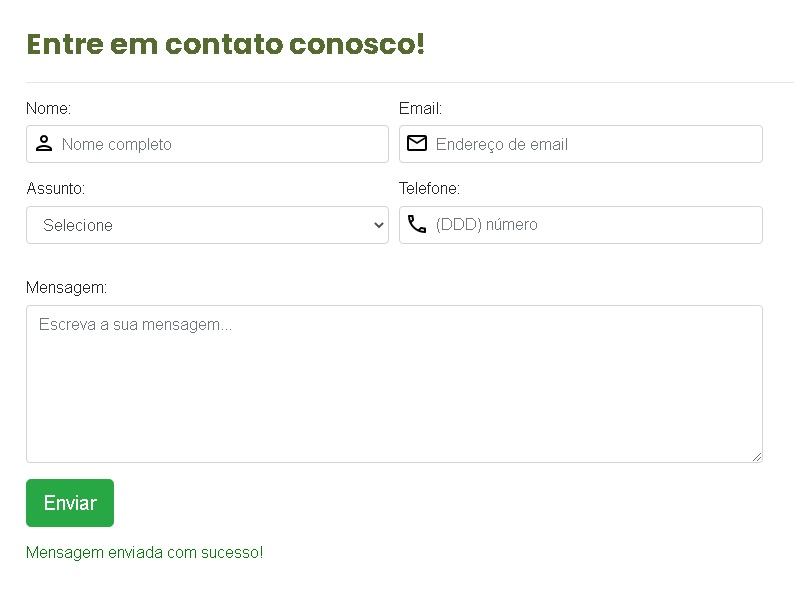
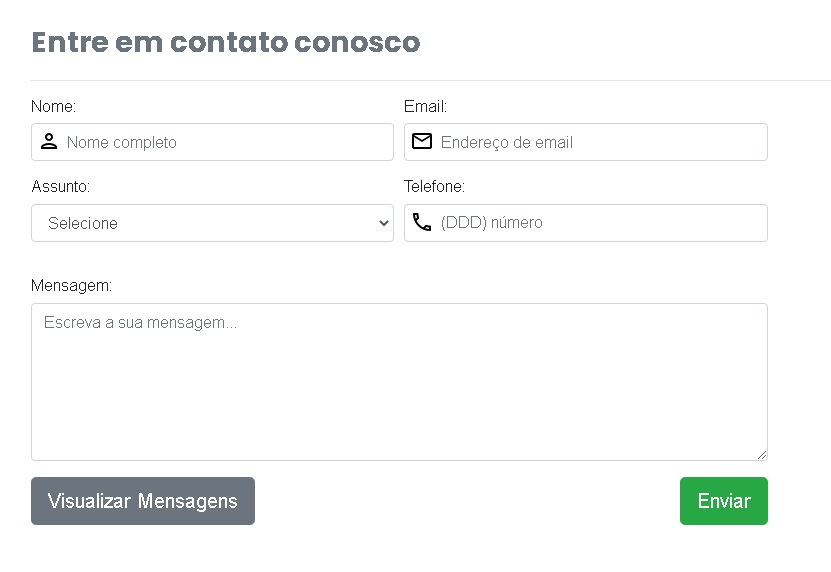
UPDATE - Add CRUD (UPDATE and DELETE methods)

diff --git a/style.css b/style.css
@@ -50,14 +50,51 @@ body {
     transition: ease-in-out 1s;
 }
 
-.msg {
-    margin: 1rem 0;
-}
-
 a.btn {
     margin: 5px 5px;
 }
 
+#btn_sub {
+    float: right;
+}
+
+.btn_view.hidden {
+    display: none;
+}
+
+.btn_hidden.hidden {
+    display: none;
+}
+
+/* LIST */
 #lista_contato.hidden {
     display: none;
+}
+.table td,
+.table th {
+    text-align: left;
+    vertical-align: middle;
+    padding: 0.5rem;
+}
+
+td.btn_list {
+    text-align: center;
+}
+
+/* ALERT */
+
+.aviso {
+    padding-top: 1rem;
+    display: flex;
+    align-items: center;
+    color: #3f3f3e;
+}
+
+.aviso h5 {
+    font-weight: 700;
+}
+
+.aviso img {
+    margin-right: 0.5rem;
+    width: 2.5rem;
 }

diff --git a/funcoes.js b/funcoes.js
@@ -1,7 +1,16 @@
 // Máscara para telefone/celular
 $("#telefone, #celular").mask("(00) 00000-0000");
 
-// Remover Classe Hidden
+// Remover Classe Hidden da lista e botão visualizar
 $("#btn_hidden").click(function () {
-    $(".lista").toggleClass("hidden");
+    $("#lista_contato.lista").toggleClass("hidden");
+    $(".btn_view").toggleClass("hidden");
+    $(".btn_hidden").toggleClass("hidden");
+});
+
+// Remover Classe Hidden da lista e botão ocultar
+$("#btn_hidden2").click(function () {
+    $("#lista_contato.lista").toggleClass("hidden");
+    $(".btn_hidden").toggleClass("hidden");
+    $(".btn_view").toggleClass("hidden");
 });

diff --git a/index.php b/index.php
@@ -3,7 +3,6 @@ require_once 'classe_cliente.php';
 $p = new Cliente("127.0.0.1","3308","contato_clientes", "root","");
 ?>
 
-
 <!DOCTYPE html>
 <html lang="en">
     <head>
@@ -24,28 +23,74 @@ $p = new Cliente("127.0.0.1","3308","contato_clientes", "root","");
         <title>Formulário de Contato</title>
     </head>
     <body>
-    <?php
-        if(isset($_POST['nome']))
-        {
-            $nome = addslashes($_POST['nome']); 
-            $email= addslashes($_POST['email']);
-            $assunto= addslashes($_POST['assunto']);
-            $telefone= addslashes($_POST['telefone']);
-            $mensagem= addslashes($_POST['mensagem']);
-
-            if(!empty($nome) && !empty($email) && !empty($assunto) && !empty($telefone) && !empty($mensagem))
-            {
-                $p->cadastrarMensagem($nome, $email, $assunto, $telefone, $mensagem);
-
-            } else {
-                echo "Preencha todos os campos!";
-            }
-        }
-    ?>
         <div class="container">
+            <!--INSERIR MSG DO CLIENTE NO BANCO DE DADOS-->
+            <?php
+                if(isset($_POST['btn_submit']))
+                {
+                    // EDITAR
+                    if(isset($_GET['id_up']) && !empty($_GET['id_up']))
+                    {
+                        $id_upd = addslashes($_GET['id_up']);
+                        $nome = addslashes($_POST['nome']); 
+                        $email= addslashes($_POST['email']);
+                        $assunto= addslashes($_POST['assunto']);
+                        $telefone= addslashes($_POST['telefone']);
+                        $mensagem= addslashes($_POST['mensagem']);
+    
+                        if(!empty($nome) && !empty($email) && !empty($assunto) && !empty($telefone) && !empty($mensagem))
+                        {
+                            $p->atualizarDados($id_upd,$nome, $email, $assunto, $telefone, $mensagem);
+                            echo "<script language='javascript'>window.location.href='index.php';</script>";
+    
+                        } 
+                        else 
+                        {
+                             ?>
+                            <div class='aviso'>
+                                <img src="images/aviso.svg" alt="Error">
+                                <h5>Não foi possível atualizar, por favor, preencha todos os campos!</h5>
+                            </div>
+                            <?php
+                        }    
+                    }
+                     // CADASTRAR MSG NOVA
+                    else 
+                    {
+                        $nome = addslashes($_POST['nome']); 
+                        $email= addslashes($_POST['email']);
+                        $assunto= addslashes($_POST['assunto']);
+                        $telefone= addslashes($_POST['telefone']);
+                        $mensagem= addslashes($_POST['mensagem']);
+    
+                        if(!empty($nome) && !empty($email) && !empty($assunto) && !empty($telefone) && !empty($mensagem))
+                        {
+                            $p->cadastrarMensagem($nome, $email, $assunto, $telefone, $mensagem);
+    
+                        } 
+                        else 
+                        {
+                            ?>
+                            <div class='aviso'>
+                                <img src="images/aviso.svg" alt="Error">
+                                <h5>Por favor, preencha todos os campos!</h5>
+                            </div>
+                            <?php
+                        }
+                    }    
+                }
+            ?>
+            <!--ATUALIZAR MENSAGEM ENVIADA-->
+            <?php
+                if(isset($_GET['id_up']))
+                {
+                    $id_update = addslashes($_GET['id_up']);
+                    $res = $p->buscarDadosCliente($id_update);
+                }
+            ?>
             <section class="form_contact">
                 <header>
-                    <h2>Entre em contato conosco!</h2>
+                    <h2>Entre em contato conosco</h2>
                 </header>
                 <hr />
                 <form method="POST">
@@ -58,16 +103,18 @@ $p = new Cliente("127.0.0.1","3308","contato_clientes", "root","");
                                 class="form-control name"
                                 placeholder="Nome completo"
                                 name="nome"
+                                value="<?php if(isset($res)){echo $res['nome'];}?>"
                             />
                         </div>
                         <div class="form-group col-md-4">
                             <label for="email">Email:</label>
                             <input
-                                type="email"
                                 class="form-control email"
                                 id="email"
-                                placeholder="Endereço de email"
+                                type="email"
                                 name="email"
+                                placeholder="Endereço de email"
+                                value="<?php if(isset($res)){echo $res['email'];}?>"
                             />
                         </div>
                     </div>
@@ -75,8 +122,8 @@ $p = new Cliente("127.0.0.1","3308","contato_clientes", "root","");
                         <div class="form-group col-md-4">
                             <label for="assunto">Assunto:</label>
                             <select
-                                id="assunto"
                                 class="form-control"
+                                id="assunto"
                                 name="assunto"
                             >
                                 <option selected>Selecione</option>
@@ -96,7 +143,9 @@ $p = new Cliente("127.0.0.1","3308","contato_clientes", "root","");
                                 placeholder="(DDD) número"
                                 id="telefone"
                                 name="telefone"
-                            /><br />
+                                value="<?php if(isset($res)){echo $res['telefone'];}?>"
+                            />
+                            <br/>
                         </div>
                     </div>
                     <div class="form-row">
@@ -110,30 +159,36 @@ $p = new Cliente("127.0.0.1","3308","contato_clientes", "root","");
                                 rows="6"
                                 name="mensagem"
                                 placeholder="Escreva a sua mensagem..."
-                            ></textarea>
+                            ><?php if(isset($res)){echo $res['mensagem'];}?></textarea>
                         </div>
                     </div>
-                    <input type="submit" value="Enviar" id="btn_sub" class="btn btn-success btn-lg">
-                    <button type="button" id="btn_hidden" class="btn btn-secondary btn-lg">Visualizar Mensagens</button>
+                    <div class="form-row">
+                        <div class="form-group col-md-8">
+                            <input type="button" id="btn_hidden" class="btn_view btn btn-secondary btn-lg" value="Visualizar Mensagens">
+                            <input type="button" id="btn_hidden2" class="btn_hidden btn btn-secondary btn-lg hidden" value="Ocultar Mensagens">
+                            <input type="submit" name="btn_submit" value="<?php if(isset($res)){echo "Atualizar";}else {echo "Enviar";}?>" id="btn_sub" class="btn btn-success btn-lg">
+                        </div>
+                    </div>
                 </form>
             </section>
             <br>
             <section id="lista_contato" class="lista hidden">
                 <header>
-                    <h2>Lista de mensagens!</h2>
+                    <h2>Lista de mensagens</h2>
                 </header>
                 <hr>
                 <table class="table table-bordered">
                     <thead>
-                        <tr id="titulo">
+                        <tr class="table-active">
                             <th scope="col">Nome</td>
                             <th scope="col">Email</td>
-                            <th scope="col">Telefone</td>
                             <th scope="col">Assunto</td>
+                            <th scope="col" >Telefone</td>
                             <th scope="col" colspan="2">Mensagem</td>
                         </tr>
                     </thead>
                     <tbody>
+                        <!--LISTAR MSGs DOS CLIENTES NO BANCO DE DADOS-->
                         <?php
                             $dados = $p->buscarMensagens();
                             if(count($dados) > 0)
@@ -148,18 +203,28 @@ $p = new Cliente("127.0.0.1","3308","contato_clientes", "root","");
                                         }
                                     }
                         ?>
-                                    <td><a class="btn btn-secondary" href="">Editar</a><a class="btn btn-danger" href="">Excluir</a></td>
+                                    <td class="btn_list">
+                                        <a class="btn btn-secondary" href="index.php?id_up=<?php echo $dados[$i]['id'];?>">Editar</a>
+                                        <a class="btn btn-danger" href="index.php?id=<?php echo $dados[$i]['id'];?>">Excluir</a>
+                                    </td>
                         <?php
                                     echo "</tr>";
                                 }
-                            }else {
-                                echo "Ainda não há pessoas cadastradas!";
+                            }
+                            else 
+                            {   
+                                ?>
+                                <div class="aviso">
+                                    <h5>* Ainda não há mensagens cadastradas!</h5>
+                                </div>
+                                <?php
                             }
                         ?>
                     </tbody>
                 </table>
             </section>
         </div>
+
         <script
             src="https://code.jquery.com/jquery-3.3.1.slim.min.js"
             integrity="sha384-q8i/X+965DzO0rT7abK41JStQIAqVgRVzpbzo5smXKp4YfRvH+8abtTE1Pi6jizo"
@@ -177,7 +242,17 @@ $p = new Cliente("127.0.0.1","3308","contato_clientes", "root","");
         ></script>
         <script src="https://ajax.googleapis.com/ajax/libs/jquery/2.1.1/jquery.min.js"></script>
         <script src="https://cdnjs.cloudflare.com/ajax/libs/jquery.mask/1.14.11/jquery.mask.min.js"></script>
+        
         <script src="funcoes.js"></script>
     </body>
 </html>    
 
+<!-- Excluir mensagem de contato do cliente quando o parâmetro existir -->
+<?php
+    if(isset($_GET['id']))
+    {
+        $id_cliente = addslashes($_GET['id']);
+        $p->excluirMensagem($id_cliente);
+        echo "<script language='javascript'>window.location.href='index.php';</script>";
+    }
+?>

diff --git a/classe_cliente.php b/classe_cliente.php
@@ -20,15 +20,14 @@ Class Cliente{
         }
     }
 
-
     public function buscarMensagens()
     {   $res = array();
-        $cmd = $this->pdo->query("SELECT * FROM mensagens_clientes ORDER BY id");
+        $cmd = $this->pdo->query("SELECT * FROM mensagens_clientes ORDER BY id desc");
         $res = $cmd->fetchAll(PDO::FETCH_ASSOC);
         return $res;
     }
 
-    public function cadastrarMensagem($nome, $email, $telefone, $assunto, $mensagem)
+    public function cadastrarMensagem($nome, $email, $assunto, $telefone, $mensagem)
     {
         $cmd = $this->pdo->prepare("INSERT INTO mensagens_clientes (nome, email, assunto, telefone, mensagem) VALUES (:n, :e, :a, :t, :m)");
         $cmd->bindValue(":n", $nome);
@@ -36,6 +35,36 @@ Class Cliente{
         $cmd->bindValue(":a", $assunto);
         $cmd->bindValue(":t", $telefone);
         $cmd->bindValue(":m", $mensagem);
+        $cmd->execute();
+    }
+
+    public function excluirMensagem($id)
+    {
+        $cmd = $this->pdo->prepare("DELETE FROM mensagens_clientes WHERE id = :id");
+        $cmd->bindValue(":id", $id);
+        $cmd->execute();
+    }
+
+    // EDITAR (UPDATE)
+    public function buscarDadosCliente($id) 
+    {
+        $res = array();
+        $cmd = $this->pdo->prepare("SELECT * FROM mensagens_clientes WHERE id = :id");
+        $cmd->bindValue(":id",$id);
+        $cmd->execute();
+        $res = $cmd-> fetch(PDO::FETCH_ASSOC);
+        return $res;
+    }
+
+    public function atualizarDados($id, $nome, $email, $assunto, $telefone, $mensagem)
+    {
+        $cmd = $this->pdo->prepare("UPDATE mensagens_clientes SET nome = :n, email= :e, assunto= :a, telefone = :t, mensagem= :m WHERE id = :id");
+        $cmd->bindValue(":n", $nome);
+        $cmd->bindValue(":e", $email);
+        $cmd->bindValue(":a", $assunto);
+        $cmd->bindValue(":t", $telefone);
+        $cmd->bindValue(":m", $mensagem);
+        $cmd->bindValue(":id",$id);
         $cmd->execute();
     }
 }
